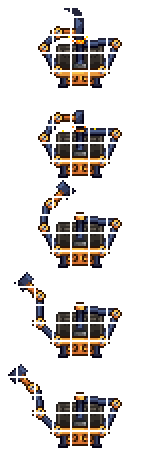
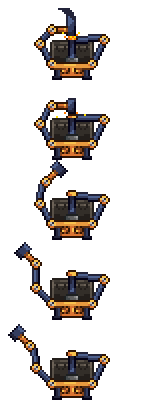
overhang system fix

diff --git a/Common/Machines/MachineOverhangSystem.cs b/Common/Machines/MachineOverhangSystem.cs
@@ -12,6 +12,24 @@ namespace Factorraria.Common.Machines
     // after all tiles are drawn, so the art can spill past the footprint without neighbouring tiles painting over it.
     public class MachineOverhangSystem : ModSystem
     {
+        public override void Load()
+        {
+            On_TileObject.DrawPreview += HideVanillaPreview;
+        }
+
+        public override void Unload()
+        {
+            On_TileObject.DrawPreview -= HideVanillaPreview;
+        }
+
+        private static void HideVanillaPreview(On_TileObject.orig_DrawPreview orig, SpriteBatch sb, TileObjectPreviewData op, Vector2 position)
+        {
+            if (MachineVisualRegistry.Definitions.TryGetValue(op.Type, out var def) && def.Canvas != null)
+                return;
+
+            orig(sb, op, position);
+        }
+
         public override void PostDrawTiles()
         {
             if (Main.dedServ || MachineVisualRegistry.Definitions.Count == 0)
@@ -73,18 +91,70 @@ namespace Factorraria.Common.Machines
                     batchBegun = true;
                 }
 
-                for (int cx = 0; cx < canvas.CanvasWidth; cx++)
+                DrawCanvasCells(spriteBatch, texture, canvas, worldTopLeft, frameY, color);
+            }
+
+            if (TryGetHologram(out MachineVisualDefinition holoDef, out Vector2 holoTopLeft, out bool holoValid))
+            {
+                if (!batchBegun)
                 {
-                    for (int cy = 0; cy < canvas.CanvasHeight; cy++)
-                    {
-                        Rectangle source = new Rectangle(cx * canvas.CellSize, frameY + cy * canvas.CellSize, 16, 16);
-                        spriteBatch.Draw(texture, worldTopLeft + new Vector2(cx * 16, cy * 16) - Main.screenPosition, source, color, 0f, Vector2.Zero, 1f, SpriteEffects.None, 0f);
-                    }
+                    spriteBatch.Begin(SpriteSortMode.Deferred, BlendState.AlphaBlend, Main.DefaultSamplerState, DepthStencilState.None, Main.Rasterizer, null, Main.GameViewMatrix.TransformationMatrix);
+                    batchBegun = true;
                 }
+
+                Color tint = holoValid ? Color.White * 0.55f : new Color(255, 70, 70) * 0.6f;
+                DrawCanvasCells(spriteBatch, holoDef.OffTexture.Value, holoDef.Canvas, holoTopLeft, 0, tint);
             }
 
             if (batchBegun)
                 spriteBatch.End();
+        }
+
+        // One 16x16 source cell per tile of the canvas, so the padding between cells in the texture is never drawn.
+        private static void DrawCanvasCells(SpriteBatch spriteBatch, Texture2D texture, MachineCanvas canvas, Vector2 worldTopLeft, int frameY, Color color)
+        {
+            for (int cx = 0; cx < canvas.CanvasWidth; cx++)
+            {
+                for (int cy = 0; cy < canvas.CanvasHeight; cy++)
+                {
+                    Rectangle source = new Rectangle(cx * canvas.CellSize, frameY + cy * canvas.CellSize, 16, 16);
+                    spriteBatch.Draw(texture, worldTopLeft + new Vector2(cx * 16, cy * 16) - Main.screenPosition, source, color, 0f, Vector2.Zero, 1f, SpriteEffects.None, 0f);
+                }
+            }
+        }
+
+        // Placement preview while the held item places an overhang machine: the whole sprite (overhang included) faded,
+        // or all red when it can't go there. Vanilla's own preview only draws the footprint, so it is skipped for these
+        // machines (HideVanillaPreview) and this replaces it.
+        private static bool TryGetHologram(out MachineVisualDefinition def, out Vector2 topLeft, out bool valid)
+        {
+            def = null;
+            topLeft = Vector2.Zero;
+            valid = false;
+
+            if (Main.gameMenu)
+                return false;
+
+            Player player = Main.LocalPlayer;
+            Item held = player.HeldItem;
+            if (player.dead || player.mouseInterface || held.IsAir || held.createTile < 0)
+                return false;
+
+            if (!MachineVisualRegistry.Definitions.TryGetValue(held.createTile, out def) || def.Canvas == null)
+                return false;
+
+            TileObjectData data = TileObjectData.GetTileData(held.createTile, held.placeStyle);
+            if (data == null || !def.Canvas.Resolve(def.OnTexture.Value, def.OffTexture.Value))
+                return false;
+
+            MachineCanvas canvas = def.Canvas;
+            int cornerX = Player.tileTargetX - data.Origin.X;
+            int cornerY = Player.tileTargetY - data.Origin.Y;
+            topLeft = new Vector2(cornerX * 16 - canvas.OriginX * 16f, cornerY * 16 - canvas.OriginY * 16f + canvas.YOffset);
+
+            valid = player.IsTargetTileInItemRange(held)
+                && TileObject.CanPlace(Player.tileTargetX, Player.tileTargetY, held.createTile, held.placeStyle, player.direction, out _, true);
+            return true;
         }
     }
 }

diff --git a/Content/Tiles/Machines/ElectricalConsumers/MechanicalAssembler/MechanicalAssemblerTile.cs b/Content/Tiles/Machines/ElectricalConsumers/MechanicalAssembler/MechanicalAssemblerTile.cs
@@ -10,9 +10,9 @@ namespace Factorraria.Content.Tiles.Machines.ElectricalConsumers.MechanicalAssem
 {
     public class MechanicalAssemblerTile : ModTile
     {
-        // The tile is drawn through MachineVisualOverride; this footprint-sized sheet is only what the placement hologram
-        // uses (the vanilla preview reads the top-left cells of the tile texture, which on the canvas are empty overhang).
[1 lines of base64/hex data omitted]
+        // The tile is drawn through MachineVisualOverride and its placement hologram by MachineOverhangSystem (vanilla's
+        // own preview is skipped for overhang machines), so the Off sheet only has to exist as the tile's texture.
+        public override string Texture => "Factorraria/Content/Tiles/Machines/ElectricalConsumers/MechanicalAssembler/MechanicalAssembler_Off";
 
         public override void SetStaticDefaults()
         {

diff --git a/Common/Machines/MachineVisualOverride.cs b/Common/Machines/MachineVisualOverride.cs
@@ -28,7 +28,7 @@ namespace Factorraria.Common.Machines
         public int FootprintHeight;  // tiles
         public int OnFrames = 1;     // number of stacked frames in the On texture
         public int OffFrames = 1;    // number of stacked frames in the Off texture
-        public int Padding = 2;      // px between tile cells in the texture
+        public int Padding = 0;      // px between tile cells in the texture
         public int CanvasWidth;      // tiles, one frame (auto-detected)
         public int CanvasHeight;     // tiles, one frame (auto-detected)
         public float OriginX;        // tiles: where the footprint's top-left tile sits inside a frame (+x right, +y down)

diff --git a/Content/Tiles/Machines/ElectricalConsumers/MechanicalAssembler/MechanicalAssemblerTileEntity.cs b/Content/Tiles/Machines/ElectricalConsumers/MechanicalAssembler/MechanicalAssemblerTileEntity.cs
@@ -16,6 +16,11 @@ namespace Factorraria.Content.Tiles.Machines.ElectricalConsumers.MechanicalAssem
 
         protected override void OnAnimationFrameChanged(int newFrame, int previousFrame)
         {
+            if(!isWorking || !isOn)
+            {
+                return;
+            }
+
             if(newFrame == 0)
             {
                 SoundEngine.PlaySound(SoundID.Tink with { PitchVariance = 0.35f, Volume = 0.15f },MachineCenter);

diff --git a/CODEBASE_INDEX.md b/CODEBASE_INDEX.md
@@ -1,5 +1,5 @@
 # CODEBASE INDEX - Factorraria
-generated 2026-10-11 | 171 .cs files | regenerate: `python index_codebase.py` (project root)
+generated 2026-10-12 | 171 .cs files | regenerate: `python index_codebase.py` (project root)
 
 Legend: `+` public `#` protected `~` internal | s=static ab=abstract v=virtual ov=override c=const | `Name(Types)` method, `Name:Type` field/prop | `uses:` other project types used in file | `ns!=X` namespace differs from folder path (matters for `using`) | no line numbers: grep the name | private members and SetDefaults/SetStaticDefaults omitted
 
@@ -263,9 +263,9 @@ tModLoader/other bases -> project types:
 **MachineBiome.cs**
   enum MachineBiome
     {Unknown, Forest, Snow, Desert, Jungle, GlowingMushroom, Corruption, Crimson, Hallow, Underworld, Cavern, Underground, Sky, Ocean, ...}
-**MachineOverhangSystem.cs** uses: BaseMachine, MachineCanvas, MachineVisualRegistry, TileEntityHelper
+**MachineOverhangSystem.cs** uses: BaseMachine, MachineCanvas, MachineVisualDefinition, MachineVisualRegistry, TileEntityHelper
   class MachineOverhangSystem : ModSystem
-    +PostDrawTiles()[ov]
+    +Load()[ov] +Unload()[ov] +PostDrawTiles()[ov]
 **MachineVisualOverride.cs** uses: BaseMachine, Direction, LiquidStack, LiquidTextureCache, LiquidTypeDefinition, LiquidTypeRegistry, MotorTileEntityBase, TileEntityHelper
   class LiquidOverlayLayer
     +SourceTexture:Asset<Texture2D> +GetLiquidStack:Func<BaseMachine, LiquidStack> +CacheKey:string
@@ -679,7 +679,7 @@ tModLoader/other bases -> project types:
     +Texture:string[ov]
 **MechanicalAssemblerTileEntity.cs** uses: ElectricConsumerMachine, MechanicalAssemblerRecipeRegistry, MechanicalAssemblerTile, RecipeBook
   class MechanicalAssemblerTileEntity : ElectricConsumerMachine
-    +ValidTileType:int[ov] +Recipes:RecipeBook[ov] +PowerDemand:float[ov] #OutputSlotCount:int[ov]
+    +ValidTileType:int[ov] +Recipes:RecipeBook[ov] +PowerDemand:float[ov] #OutputSlotCount:int[ov] #OnAnimationFrameChanged(int,int)[ov]
 **MechanicalAssemblerUIState.cs** uses: ElectricityUIIcon, MachineUIElementEntry, MachineUIStateBase, MechanicalAssemblerRecipeRegistry, MechanicalAssemblerTileEntity
   class MechanicalAssemblerUIState : MachineUIStateBase
     #BuildElements()[ov]
